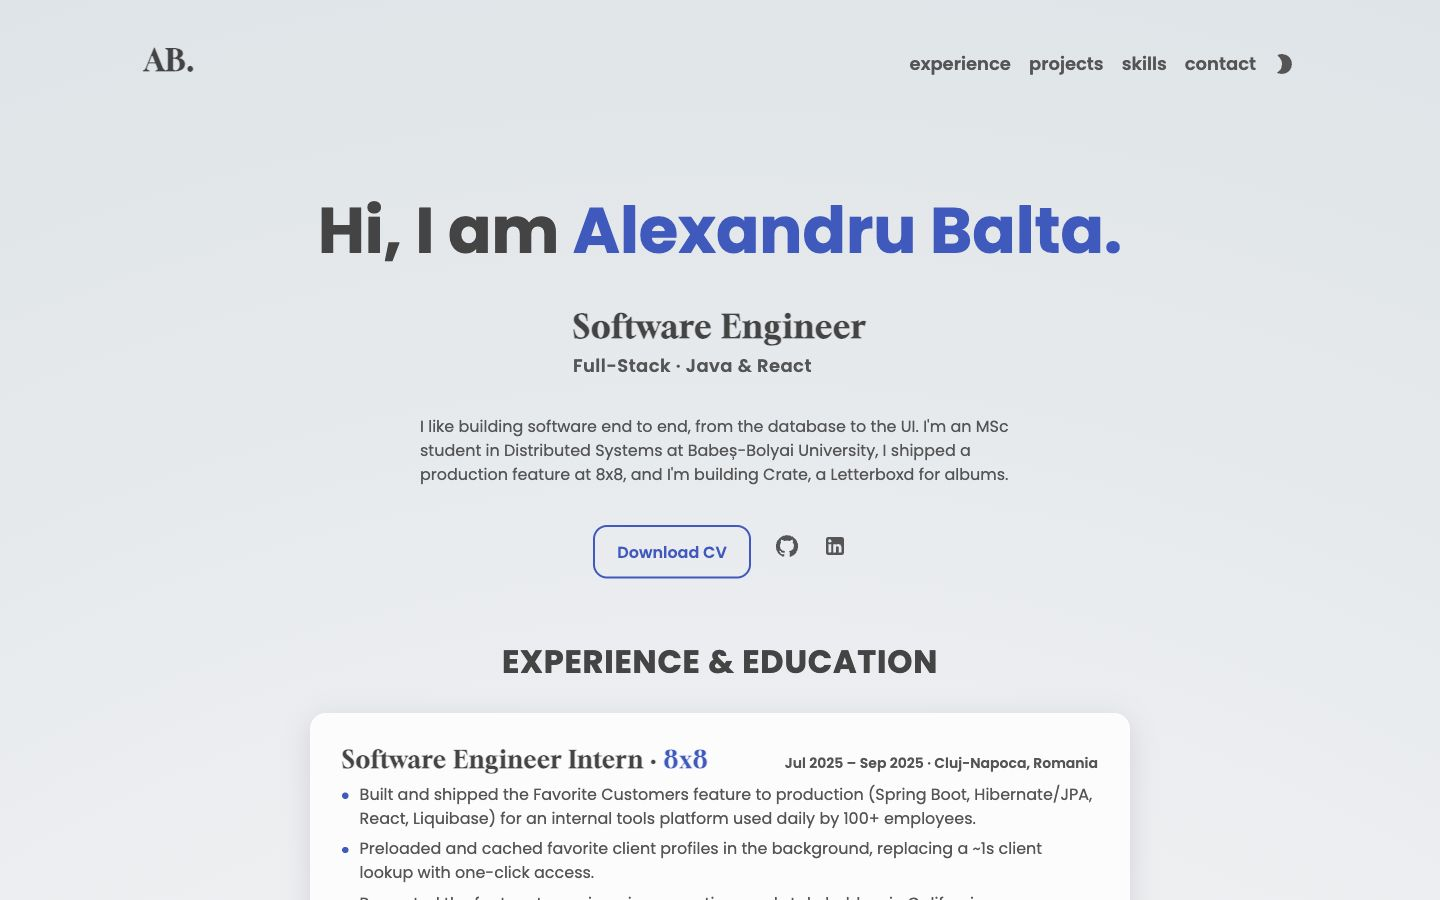
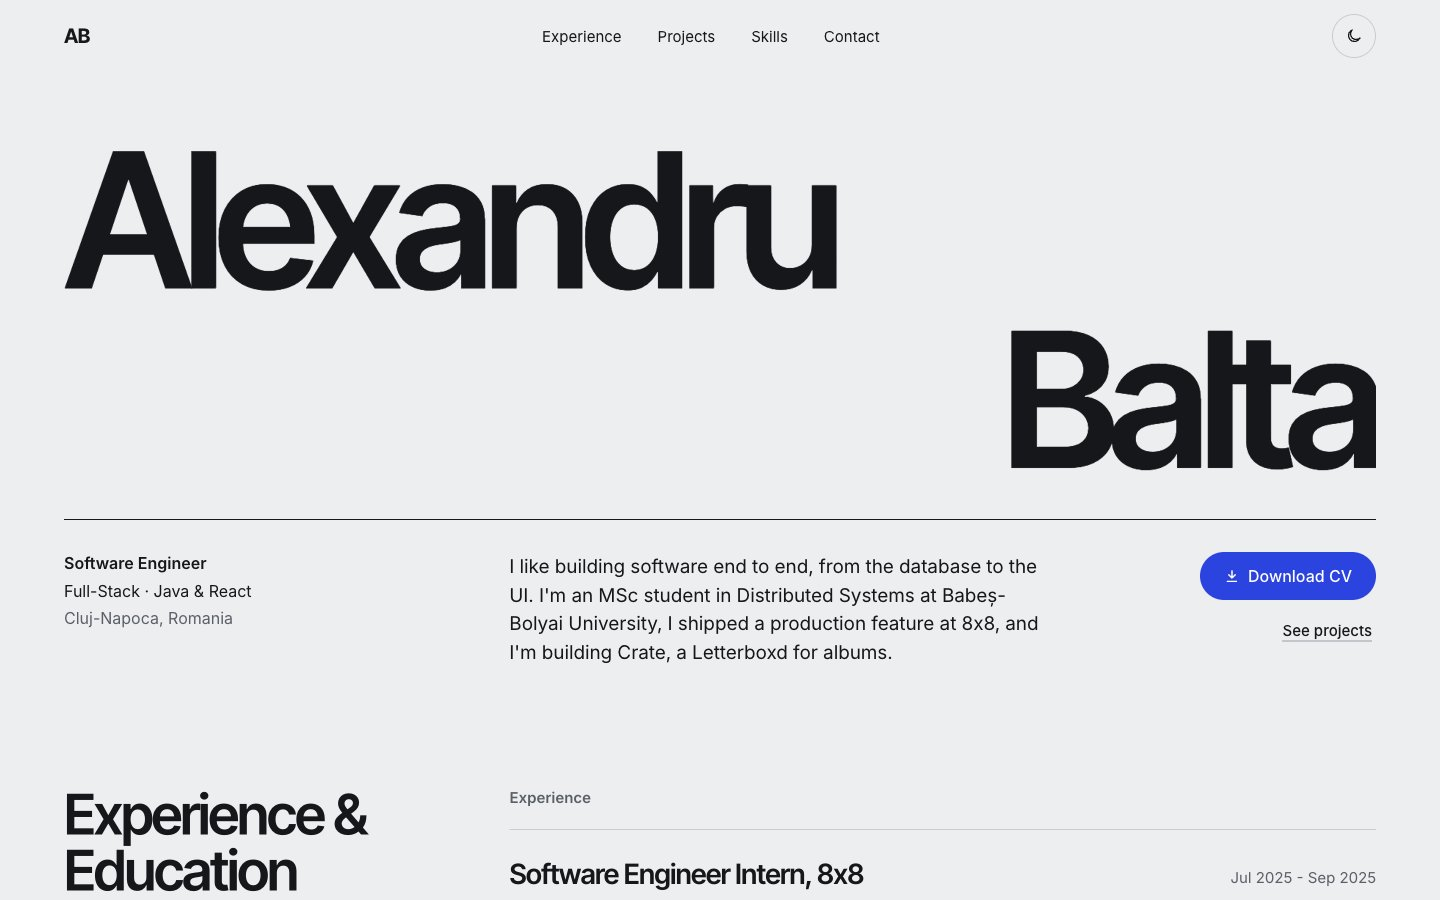
docs: update README and screenshots for the redesign
Describes the features, project structure and where to edit content, and
replaces the screenshots with the new light and dark design.

diff --git a/README.md b/README.md
@@ -1,6 +1,6 @@
 # Web Portfolio
 
-Personal site of Alexandru Balta, Software Engineer (Full-Stack · Java & React). It covers my experience at 8x8, my projects (Crate, SNN Brain Explorer) and my skills, and has a link to download my CV.
+Personal site of Alexandru Balta, Software Engineer (Full-Stack · Java & React). It covers my experience at 8x8, my education, my projects (Crate, SNN Brain Explorer and more) and my skills, and has a link to download my CV.
 
 Built with React (Create React App) and vanilla CSS, and deployed to GitHub Pages with `npm run deploy`.
 
@@ -17,6 +17,25 @@ Here is the website: [Live Demo](https://kerBiy.github.io/web-portfolio)
 ### Light Mode
 
 ![App Screenshot in Light Mode](public/img/readme-white.jpg?raw=true)
+
+## Features
+
+- Editorial layout with Inter Tight for headings and Inter for text, responsive from phones to wide screens.
+- Light and dark themes that follow the device setting, with a toggle to override it for the current device theme.
+- Sticky header that turns translucent as content scrolls under it, and a full-screen menu on small screens.
+- Scroll-driven reveals: section titles rise out of a mask and project screenshots wipe open as you scroll, reversing on the way back.
+- Accessible by default: WCAG AA contrast, visible focus states, keyboard-friendly menu, and no motion when `prefers-reduced-motion` is set.
+
+## Project Structure
+
+- `src/data/index.js`: all content (about, experience, education, projects, skills, contact). Edit this file to update the site.
+- `src/index.css`: design tokens (colors for light and dark, type scale, spacing, radii, motion) and shared styles.
+- `src/components/`: one folder per section (Header, Hero, Experience, Projects, ProjectRow, Skills, Contact, Footer).
+- `src/hooks/useScrollReveal.js`: the scroll-driven reveal animations.
+- `src/contexts/theme.jsx`: theme handling.
+- `public/`: the CV (`Alexandru_Balta_Resume.pdf`) and project screenshots in `public/img/projects/`.
+
+To show a "Live site" button for a project, set its `livePreview` URL in `src/data/index.js`.
 
 ## Run Locally
 
